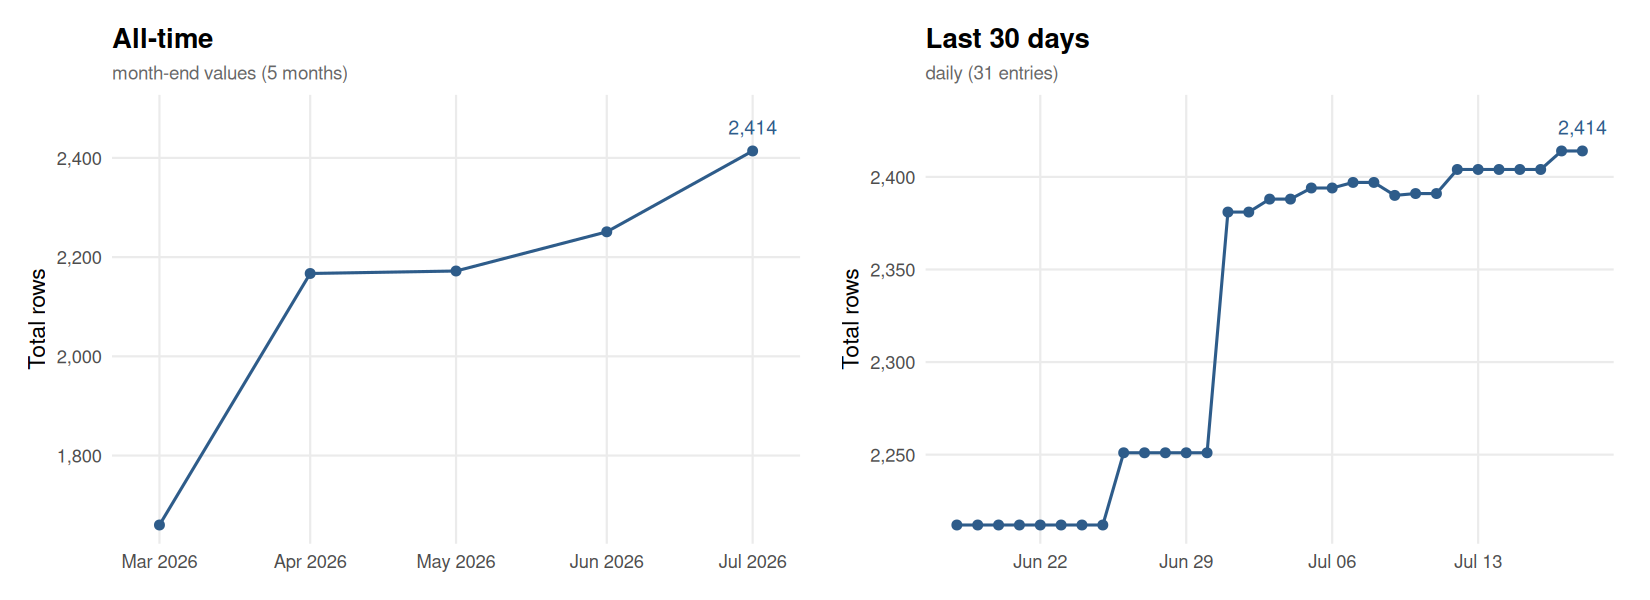
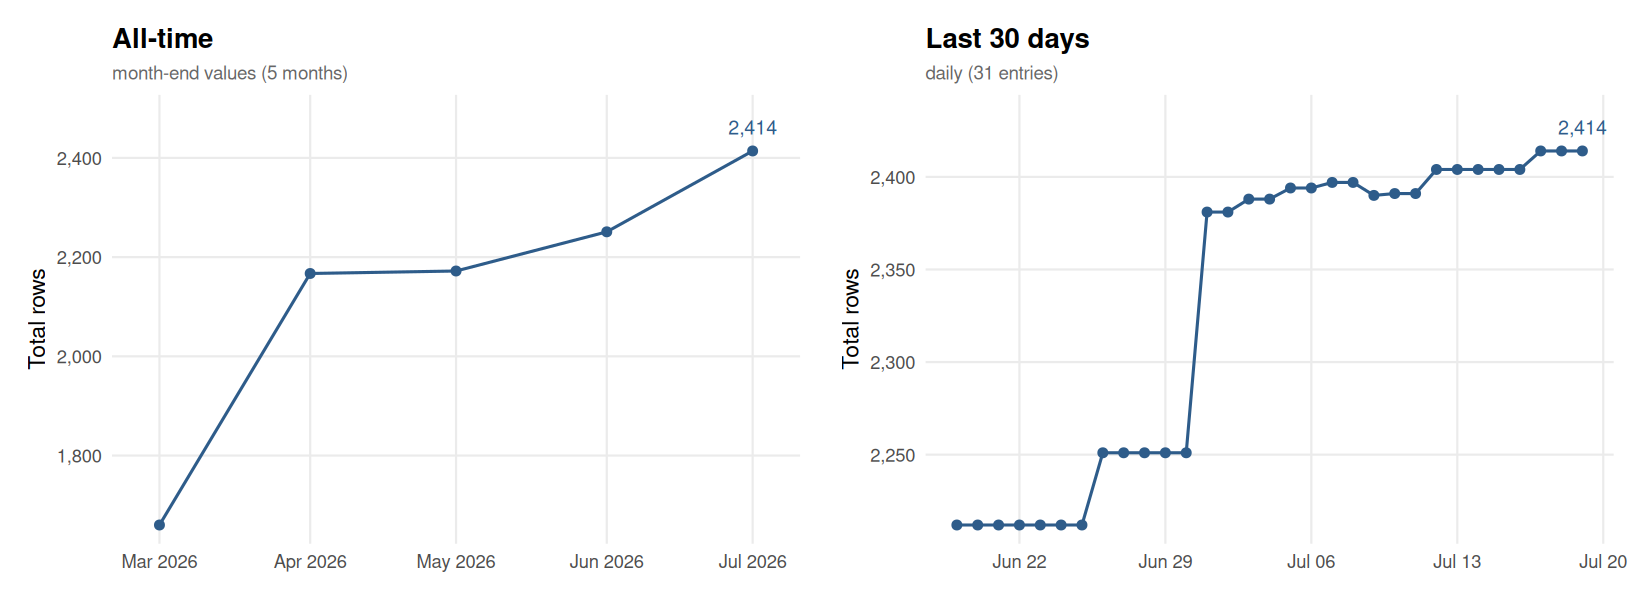
Update flora.csv [automated]

diff --git a/README.md b/README.md
@@ -438,14 +438,15 @@ For API issues:
 This chart is automatically updated after each pipeline run, showing the size of `output/flora.csv` over time.
 
 <!-- FLORA_UPDATE_LOG_START -->
-> **Latest (2026-07-18):** Total = 2,414 | Replications = 2,403 | Reproductions = 11
+> **Latest (2026-07-19):** Total = 2,414 | Replications = 2,403 | Reproductions = 11
 
 ![FLoRA dataset size over time](output/flora_history.png)
 
-<details><summary>Full history (121 entries)</summary>
+<details><summary>Full history (122 entries)</summary>
 
 | Date | Total | Replications | Reproductions |
 |------|------:|-------------:|--------------:|
+| 2026-07-19 | 2414 | 2403 | 11 |
 | 2026-07-18 | 2414 | 2403 | 11 |
 | 2026-07-17 | 2414 | 2403 | 11 |
 | 2026-07-16 | 2404 | 2393 | 11 |
